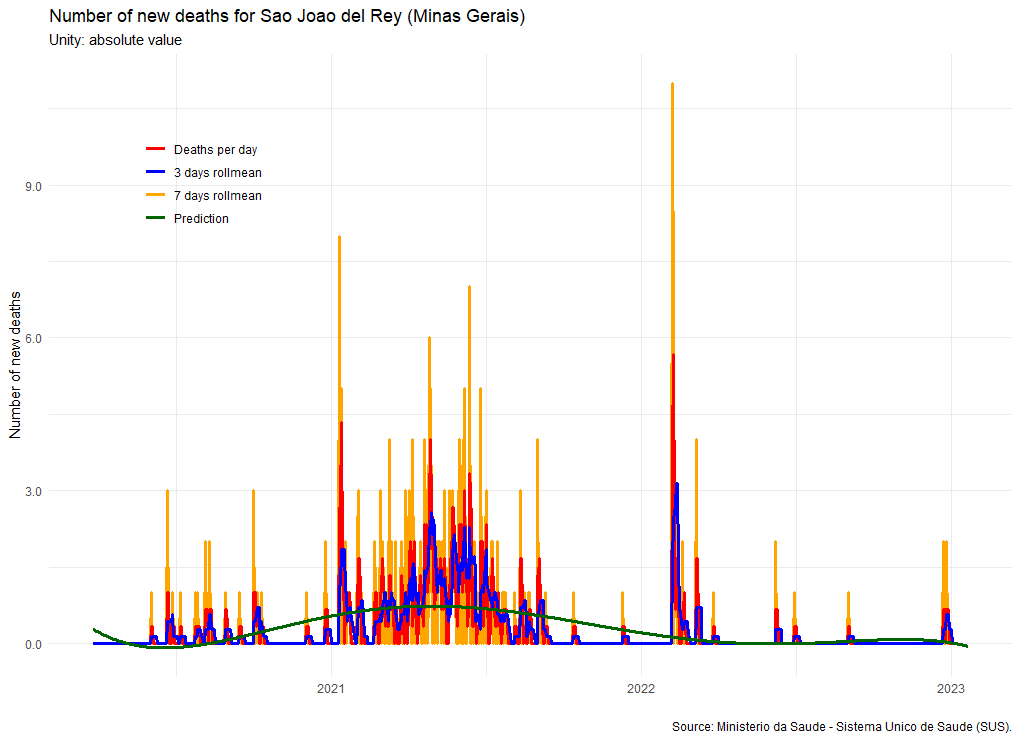
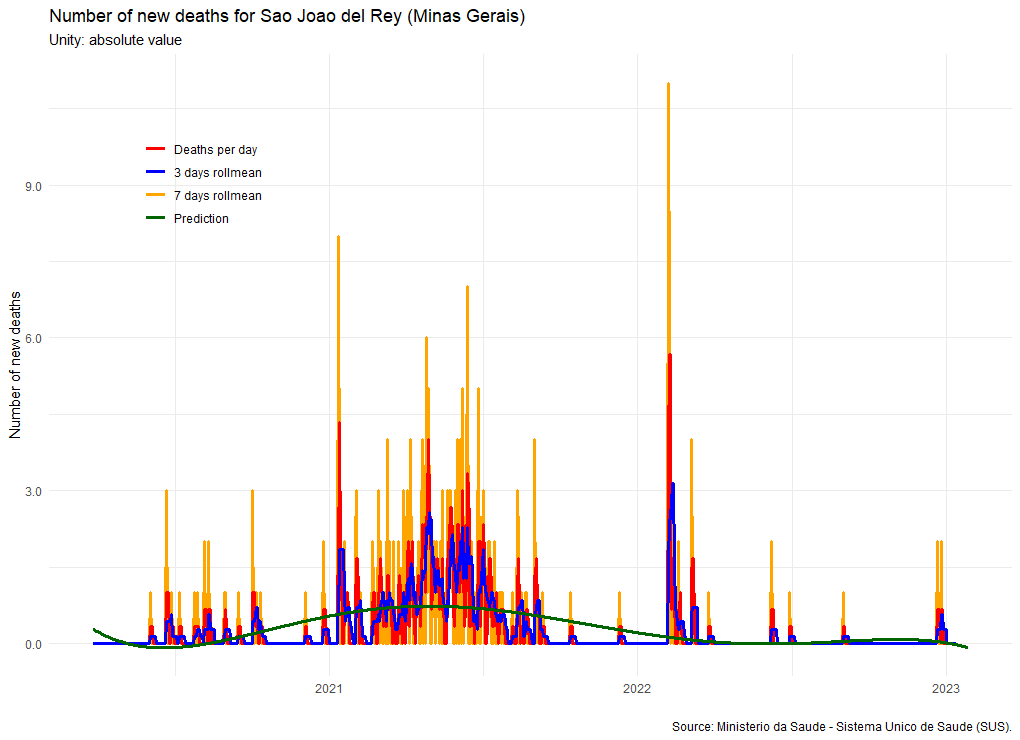
Update README file

diff --git a/README.md b/README.md
@@ -232,7 +232,7 @@ cases, respectively, for Brazil and for the municipality of Sao Joao del
 Rey (belonging to the state of Minas Gerais), a 3-day moving average, a
 7-day moving average and the forecast, obtained by polynomial
 interpolation of degree 5, covering the entire period plus 15 days (last
-day of observed data is 2023-01-06).
+day of observed data is 2023-01-13).
 
 <img src="man/figures/predCases.png" width="100%" />  
 
@@ -267,7 +267,7 @@ caused by Covid-19, respectively, for Brazil and for the municipality of
 Sao Joao del Rey (belonging to the state of Minas Gerais), a 3-day
 moving average, a 7-day moving average and the forecast, obtained by
 polynomial interpolation of degree 5, covering the entire period plus 15
-days (last day of observed data is 2023-01-06).
+days (last day of observed data is 2023-01-13).
 
 <img src="man/figures/predDeaths.png" width="100%" />  
 
